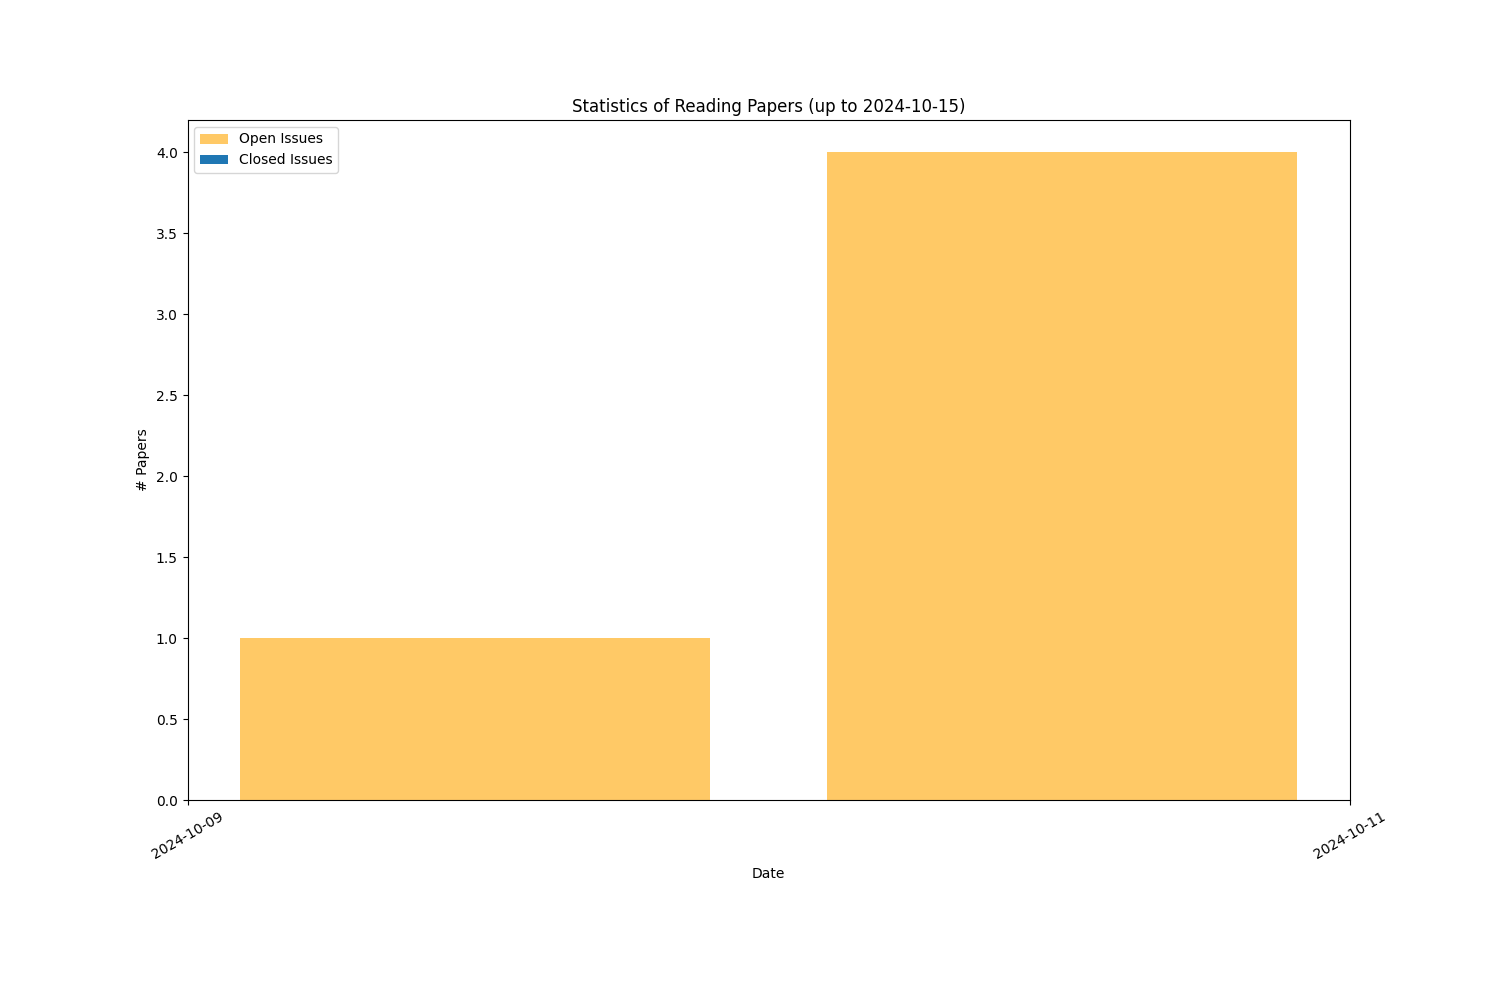
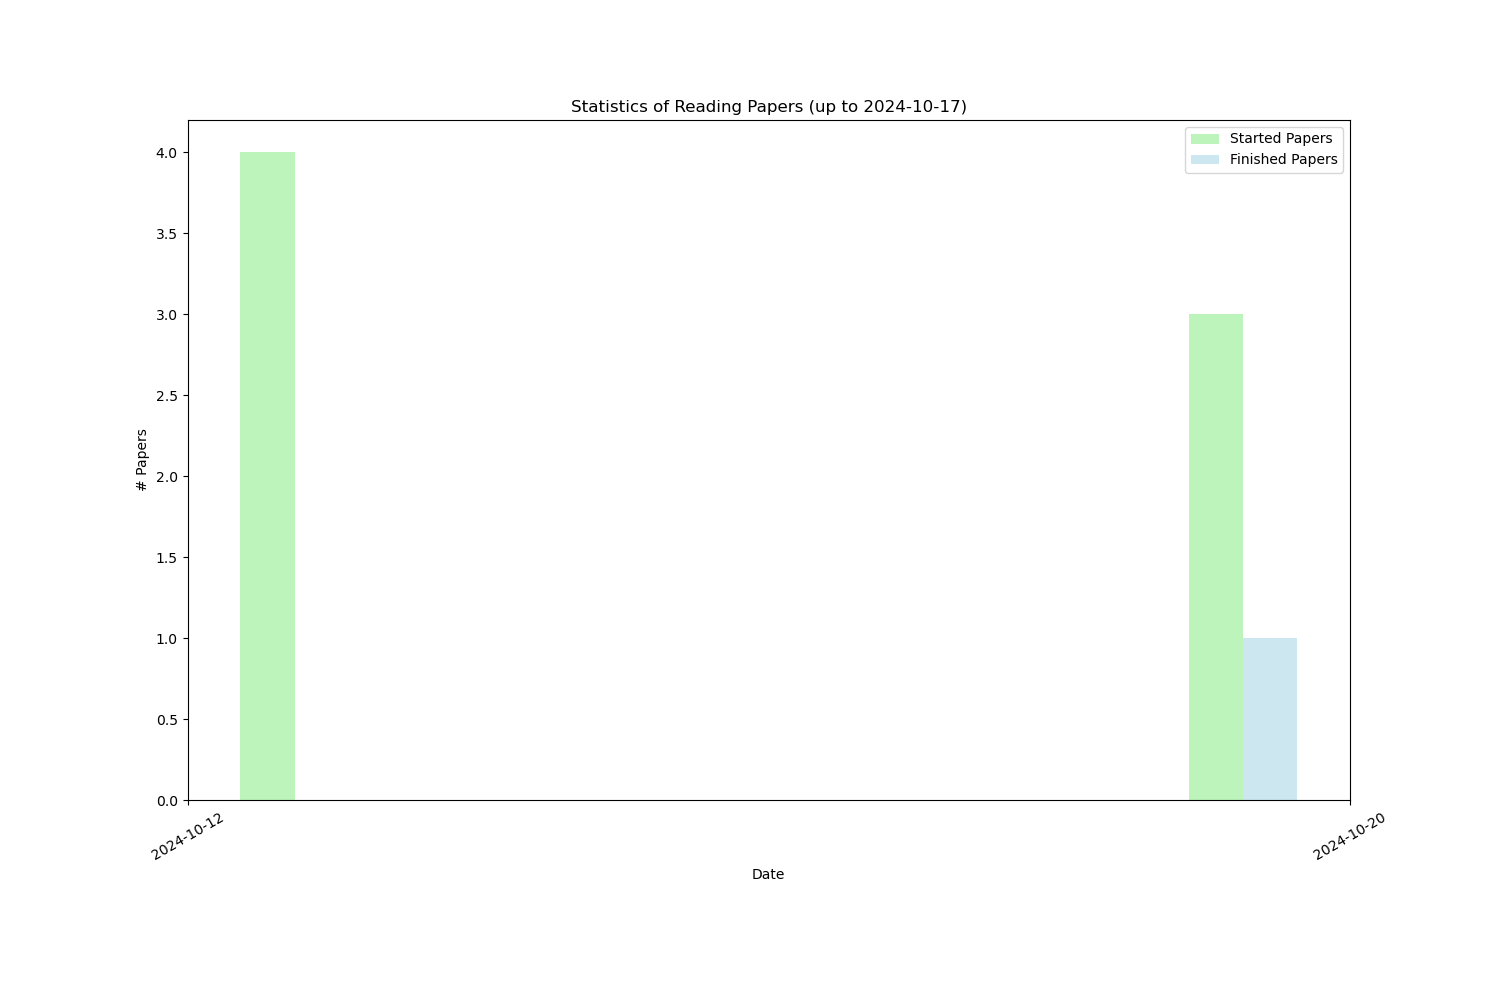
rename

diff --git a/stat.py b/stat.py
@@ -60,13 +60,20 @@ df_created = pd.DataFrame(index=pd.to_datetime(created_times))
 df_closed = pd.DataFrame(index=pd.to_datetime(closed_times))
 
 # Group by day
-stat_created = df_created.groupby(pd.Grouper(freq='D')).size()
-stat_closed = df_closed.groupby(pd.Grouper(freq='D')).size()
+stat_created = df_created.groupby(pd.Grouper(freq='W')).size()
+stat_closed = df_closed.groupby(pd.Grouper(freq='W')).size()
+
+# Align the indices
+stat_created, stat_closed = stat_created.align(stat_closed, fill_value=0)
 
 # Plotting
 fig, ax = plt.subplots(figsize=(15, 10))
-ax.bar(stat_created.index, stat_created.values, label='Open Issues', alpha=0.6, color='orange')
-ax.bar(stat_closed.index, stat_closed.values, label='Closed Issues', alpha=0.6, color='purple')
+
+width = 0.4
+dates = stat_created.index
+
+ax.bar(dates - pd.Timedelta(days=width/2), stat_created.values, width=width, label='Started Papers', alpha=0.6, color='lightgreen')
+ax.bar(dates + pd.Timedelta(days=width/2), stat_closed.values, width=width, label='Finished Papers', alpha=0.6, color='lightblue')
 
 # Set major locator and formatter
 ax.xaxis.set_major_locator(mdates.MonthLocator())
